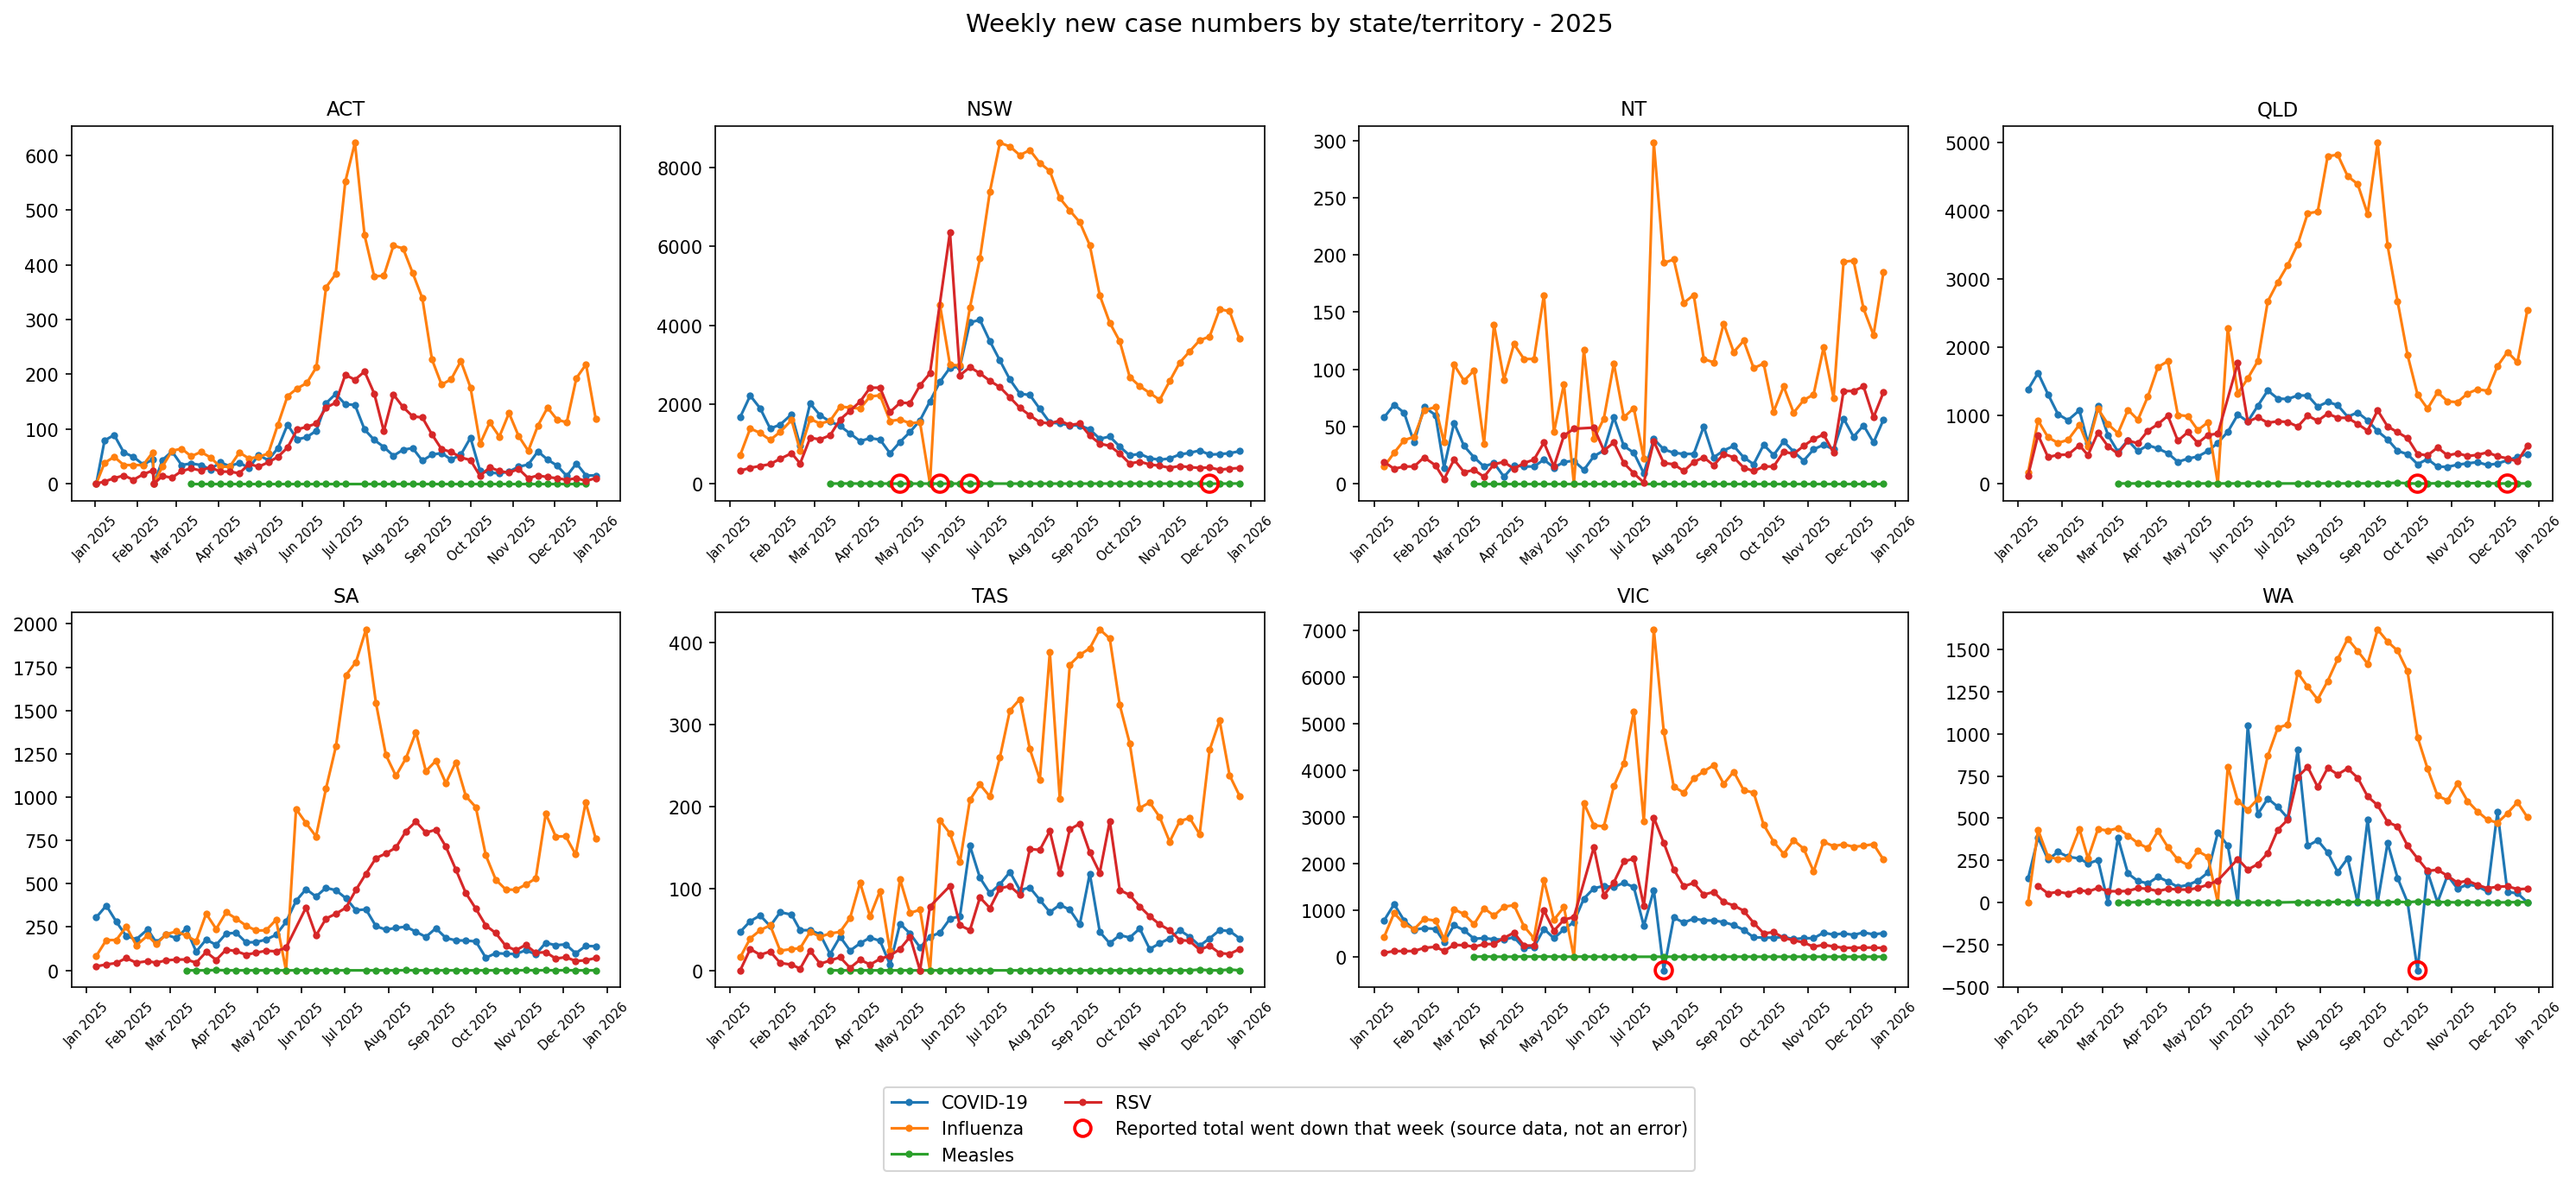
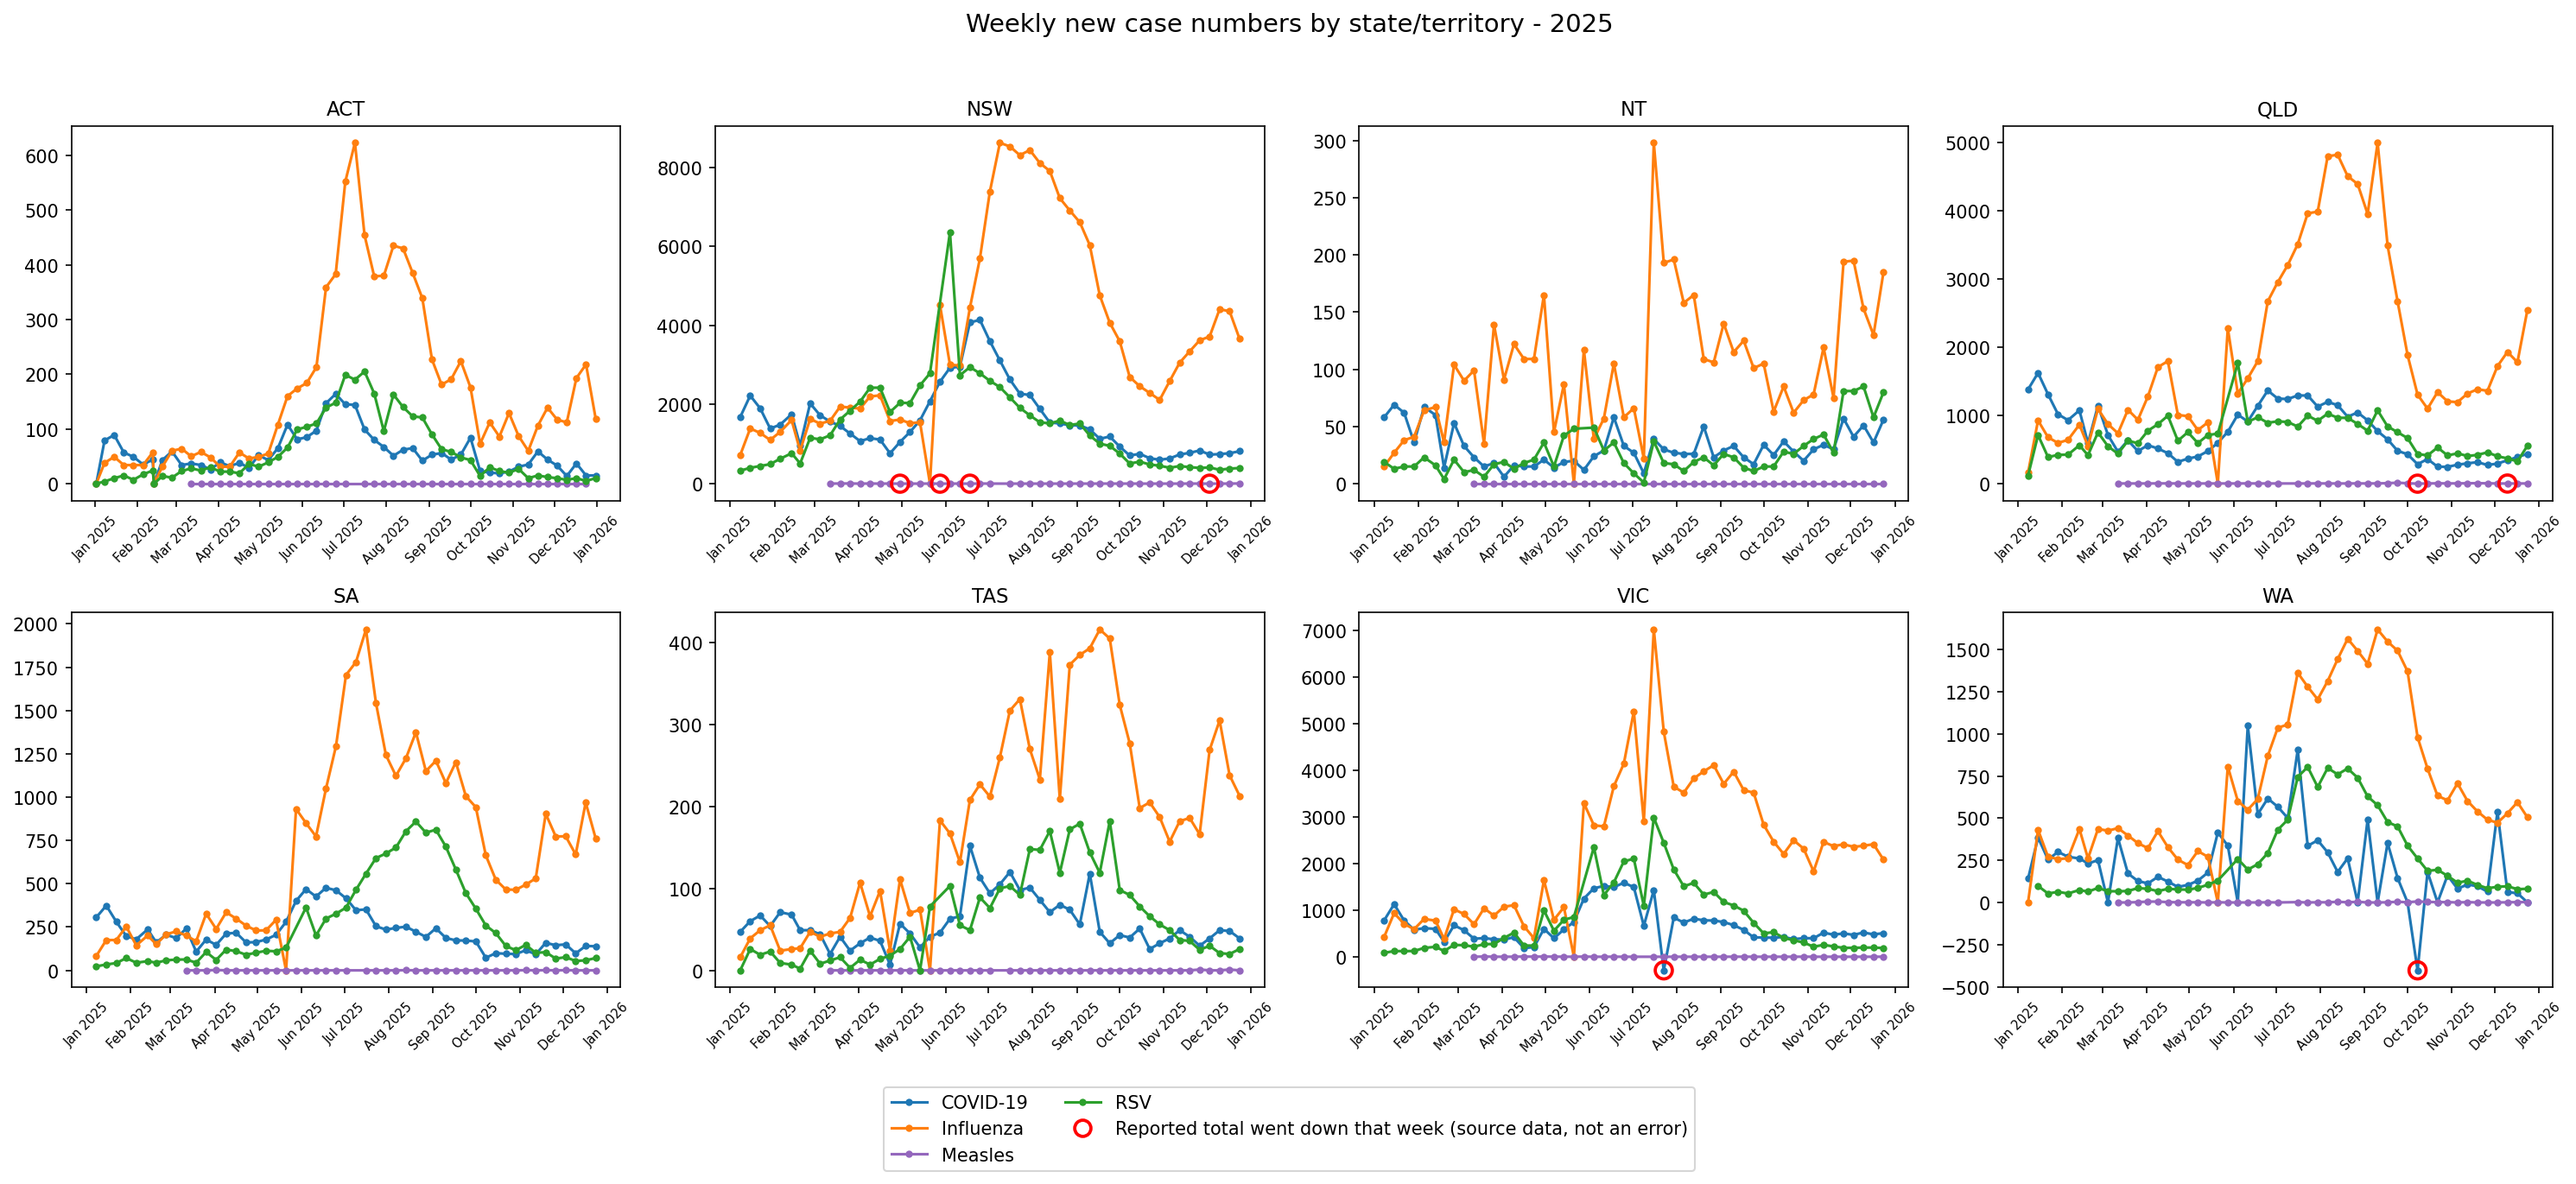
Fix bugs in graphs

diff --git a/nindss_tracker.py b/nindss_tracker.py
@@ -108,6 +108,22 @@ DISEASE_NAMES = {
     "Measles": "Measles",
 }
 
+# Fixed per-disease plot colour, so e.g. COVID-19 is always the same colour
+# on every graph. Without this, matplotlib's default colour cycling assigns
+# colours in whatever order diseases are plotted on THAT axis - if one
+# subplot happens to have no data for a disease (skipping it, never calling
+# ax.plot() for it), every disease after it silently shifts into the next
+# colour along, so the same disease ends up a different colour on different
+# graphs. Red is deliberately not used here - it's reserved for circling
+# anomalies (see _plot_new_cases_on_ax) regardless of which disease line
+# they land on.
+DISEASE_COLORS = {
+    "COVID-19": "#1f77b4",
+    "Influenza": "#ff7f0e",
+    "RSV": "#2ca02c",
+    "Measles": "#9467bd",
+}
+
 # Only application-level headers - NOT browser-fingerprint headers
 # (User-Agent, Origin, Referer, Sec-*, Accept-Encoding, etc). Those used to
 # be spoofed by hand here, but a real browser (via Playwright) sets all of
@@ -742,6 +758,13 @@ def compute_new_cases(snapshot_rows):
     revising a count downward) within the same year - those are flagged as
     anomalies rather than silently reported as a negative "new case" count.
 
+    Also new_cases=None (a reset, same as a first sighting) whenever the gap
+    since that year's previous snapshot exceeds MAX_GAP_DAYS - a multi-month
+    gap means that year genuinely wasn't tracked at all for a while, not
+    "you missed a week or two," and reporting however much it grew over the
+    whole gap as a single week's "new cases" would be fabricating a number,
+    not just reporting a slightly-longer-than-usual one.
+
     Rows from before the 'state' column existed are treated as state="National"
     for backwards compatibility with older weekly_snapshots.csv files.
     """
@@ -750,6 +773,19 @@ def compute_new_cases(snapshot_rows):
         state = row.get("state") or "National"
         key = (row["disease"], state)
         by_group.setdefault(key, []).append(row)
+
+    # Beyond this, a gap between consecutive snapshots for the same
+    # disease+state+year isn't "you skipped a week or two" (the CAVEATS at
+    # the top of this file already account for that - the delta just covers
+    # a longer period, which is fine) - it's evidence that year simply
+    # wasn't being tracked at all for a long stretch (e.g. an older version
+    # of this script only ever recorded the *current* year each week, so an
+    # older year's tracking silently stopped the moment the year rolled
+    # over, until multi-year fetching resumed much later). Treat that like
+    # a fresh first sighting (new_cases=None) rather than reporting however
+    # many months of accumulated growth happened to fall between the two
+    # snapshots as if it were one week's worth of new cases.
+    MAX_GAP_DAYS = 45
 
     results = []
     for (disease, state), rows in by_group.items():
@@ -766,9 +802,17 @@ def compute_new_cases(snapshot_rows):
             if prev is None:
                 new_cases = None
             else:
-                new_cases = cumulative - prev
-                if new_cases < 0:
-                    anomaly = True
+                prev_cumulative, prev_run_date = prev
+                gap_days = (
+                    dt.datetime.strptime(row["run_date"], "%Y-%m-%d")
+                    - dt.datetime.strptime(prev_run_date, "%Y-%m-%d")
+                ).days
+                if gap_days > MAX_GAP_DAYS:
+                    new_cases = None
+                else:
+                    new_cases = cumulative - prev_cumulative
+                    if new_cases < 0:
+                        anomaly = True
             results.append(
                 {
                     "run_date": row["run_date"],
@@ -780,7 +824,7 @@ def compute_new_cases(snapshot_rows):
                     "anomaly": anomaly,
                 }
             )
-            prev_by_year[year] = cumulative
+            prev_by_year[year] = (cumulative, row["run_date"])
     return results
 
 
@@ -821,7 +865,29 @@ def _plot_new_cases_on_ax(ax, results, state, diseases, year=None):
         # locator instead of labeling every single week.
         xs = [dt.datetime.strptime(r["run_date"], "%Y-%m-%d") for r in points]
         ys = [r["new_cases"] for r in points]
-        ax.plot(xs, ys, marker="o", markersize=3, label=disease)
+        color = DISEASE_COLORS.get(disease)
+
+        # Break the line wherever consecutive points are separated by an
+        # unusually long gap - e.g. a year's tracking stopped for months
+        # (older versions of this script only recorded the *current* year
+        # each week) before multi-year fetching resumed and picked up one
+        # genuine but isolated late-arriving point. A straight line across
+        # that gap would visually claim a smooth trend that never actually
+        # happened, so each gap-separated run of points is plotted as its
+        # own segment instead - isolated points then show as disconnected
+        # markers rather than the ends of a long diagonal line.
+        GAP_BREAK_DAYS = 21
+        segments = [[]]
+        for x, y in zip(xs, ys):
+            if segments[-1] and (x - segments[-1][-1][0]).days > GAP_BREAK_DAYS:
+                segments.append([])
+            segments[-1].append((x, y))
+        for seg_i, seg in enumerate(segments):
+            ax.plot(
+                [p[0] for p in seg], [p[1] for p in seg],
+                marker="o", markersize=3, color=color,
+                label=disease if seg_i == 0 else None,
+            )
         any_plotted = True
         all_dates.extend(xs)
         anomalies = [r for r in points if r["anomaly"]]
